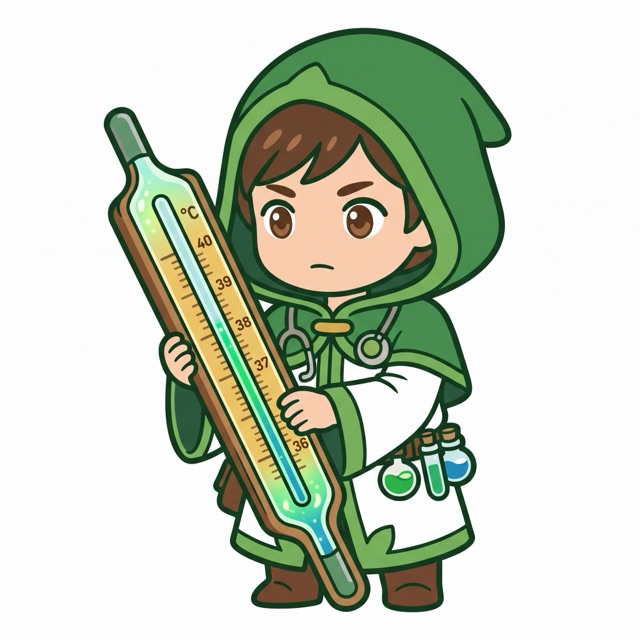
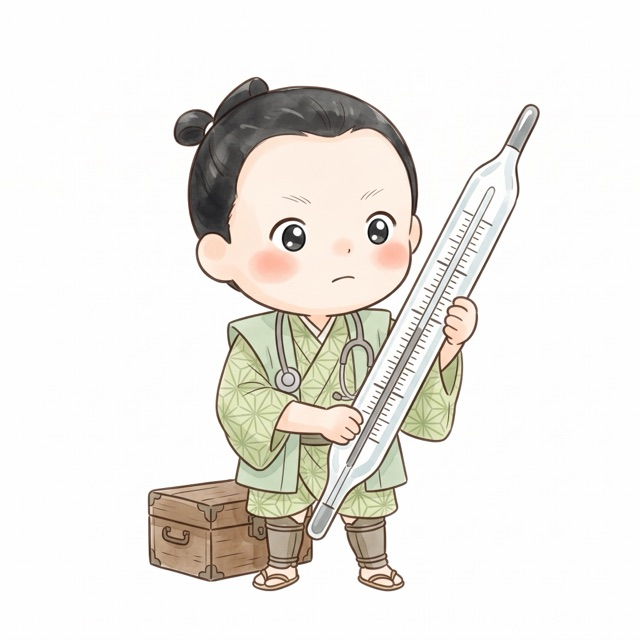
Replace HR type characters with 和風 picture-book style, rename SGDM to 規程の編纂官
- 16 character images regenerated in a soft Japanese picture-book style to match the community site
- 労務系 accent color changed from navy to purple
- SGDM renamed from ガバナンス設計士 to 規程の編纂官
- Add CHARACTERS.md with the image prompts for future regeneration

diff --git a/hr-type/style.css b/hr-type/style.css
@@ -1,7 +1,7 @@
 /* ===================================================
    HRタイプ診断 - スタイルシート
    ギルドの登録証のような、落ち着いた紙×インディゴ。
-   4つの領域（採用・組織・制度・労務）はキャラの服の色に合わせた4色。
+   4つの領域（採用・組織・制度・労務）はキャラの服の色に合わせた4色（オレンジ・グリーン・ブルー・パープル）。
 =================================================== */
 
 :root {
@@ -18,7 +18,7 @@
   --row-orange: #d9642a; --row-orange-bg: #fdebe0;
   --row-green:  #2e8b57; --row-green-bg:  #e2f3e8;
   --row-blue:   #2f5fd6; --row-blue-bg:   #e1e9fb;
-  --row-navy:   #2b3f6b; --row-navy-bg:   #e3e8f1;
+  --row-purple: #6b3fa0; --row-purple-bg: #ece3f7;
   --radius: 18px;
 }
 
@@ -264,7 +264,7 @@ h1, h2, h3, .logo, .result-name, .q-text, .start-title {
 .catalog-item[data-row="採用系"] { border-left: 4px solid var(--row-orange); }
 .catalog-item[data-row="組織系"] { border-left: 4px solid var(--row-green); }
 .catalog-item[data-row="制度系"] { border-left: 4px solid var(--row-blue); }
-.catalog-item[data-row="労務系"] { border-left: 4px solid var(--row-navy); }
+.catalog-item[data-row="労務系"] { border-left: 4px solid var(--row-purple); }
 
 /* ---------- フッター ---------- */
 #page-footer { text-align: center; padding-top: 28px; font-size: 0.75rem; color: var(--ink-3); line-height: 1.6; }

diff --git a/hr-type/types.js b/hr-type/types.js
@@ -227,7 +227,7 @@ const TYPES = {
       "partner": "PGIF"
   },
   SGDM: {
-      "name": "ガバナンス設計士",
+      "name": "規程の編纂官",
       "row": "労務系",
       "catch": "会社の土台は、規程でできている。",
       "desc": "就業規則、規程、内部統制、監査対応を仕組みとして設計し、会社の土台を守る。上場準備やグループ再編で、経営と一緒にルールの骨格を組む。「なんとなく運用」を「説明できる仕組み」に変えていく人。",
@@ -238,7 +238,7 @@ const TYPES = {
       ],
       "flip": "仕組みが先に立ち、現場から「ルールが増えた」とだけ思われることがある",
       "topic": "ルールは増やすべきか、減らすべきか？",
-      "intro": "ガバナンス設計士型です。規程や統制の設計は得意ですが、現場の実感からは遠くなりがちなので、教えてください。",
+      "intro": "規程の編纂官型です。規程や統制を整えるのは得意ですが、現場の実感からは遠くなりがちなので、教えてください。",
       "partner": "PGIM"
   },
 };

diff --git a/hr-type/CHARACTERS.md b/hr-type/CHARACTERS.md
@@ -1,0 +1,244 @@
+# HRタイプ診断 キャラ画像プロンプト
+
+やさしい絵本風の和風イラスト（2頭身、まん丸の顔、淡彩）で16体を作るためのGemini用プロンプト。
+生成時は毎回、完成済みの採用ハンター（PAIF）を添付し、末尾の「添付と同じ線・淡さ・顔・頭身で」を効かせる。
+
+- 髪は全員「黒の総髪を後ろで小さく結ぶ」で固定。髷・丸髷・ひげは使わない（性別に読まれるため）
+- 見分けは着物の柄・目の形・表情・かぶり物で付ける
+- 着物の基調色：採用系オレンジ／組織系グリーン／制度系ブルー／労務系パープル
+- 背景は真っ白一色で出す。サイトの背景が白いのでJPEGのまま使える。ファイル名はコード4文字（例 `PAIF.jpeg`）
+
+## 見立て一覧
+
+| コード | タイプ | 見立て | 持ち物 |
+|---|---|---|---|
+| PAIF | 採用ハンター | 江戸の猟師 | オレンジ色の着物を尻端折りにして、手甲と脚絆。和弓を構え、矢の代わりに白い名刺を番えている。腰の矢筒にも名刺が数枚。少し内股で、体をちょっと傾け、得意げで明るい笑顔。 |
+| PAIM | 採用の軍師 | 戦国の軍師 | オレンジ色の陣羽織。片手に軍配、もう片方の手で組織図が描かれた巻物を広げ、遠くを見据えている。 |
+| PADF | 採用サイエンティスト | 蘭学者 | オレンジ色の着物に白い羽織、丸眼鏡。漏斗（ファネル）の形をした大きなガラスのフラスコを掲げ、もう片方の手に書き付けの束。フラスコの中を真剣に覗く。 |
+| PADM | タレント戦略家 | 将棋指し | オレンジ色の羽織。将棋盤の前に座り、駒を一枚置こうとしている。盤の脇にタブレットがあり、画面に組織図。静かな自信の表情。 |
+| PGIF | 駆け込み寺 | 寺の若い住職 | グリーンの僧衣、頭に何もかぶらない。湯呑みを2つ持って片方を差し出し、足元に座布団。若くて丸い顔立ちで、おじさんには見えない。 |
+| PGIM | 経営の相談役 | ご意見番の家老 | グリーンの裃。帳面と筆を手に、少し身を乗り出して相手の話を聞いている。口元に小さな笑み。 |
+| PGDF | 組織の主治医 | 町医者 | グリーンの着物に十徳の羽織、首に聴診器。自分の背丈ほどある大きな体温計を抱え、足元に薬箱。目盛りを真剣に読んでいる。 |
+| PGDM | ピープルアナリスト | 天文方 | グリーンの着物に袖をたすきで留めている。江戸時代の木製の象限儀（四角い天板の付いた木の台の上に、四分円の目盛り板と、その上を回る細長い照準棒が載った観測器具。添付の写真の器具）の横に立ち、背伸びをして照準棒に片目を近づけ、斜め上の空を覗いている。もう片方の手には、星を線で結んだ星図（折れ線グラフのように見える）を持っていてもよい。 |
+| SAIF | 文化の仕掛け人 | 祭りの仕掛け人 | ブルーの法被にねじり鉢巻。片手に団扇、もう片方の手にクラッカーを鳴らした瞬間で、紙吹雪が舞っている。背後に提灯が1つ。 |
+| SAIM | ビジョンの翻訳家 | 長崎の通詞（江戸時代の通訳・翻訳家） | ブルーの着物の上に、西洋風の襟付きの濃い色のジャケットを羽織り、首に細いスカーフ。低い文机の前に正座し、机の左側には開いた洋書（ページに横書きの線が並ぶ）、右側には和紙（縦書きの線が途中まで書かれている）。右手に筆を持ち、洋書を見ながら和紙に書き写している最中。机の端に分厚い辞書と、洋書が2〜3冊積んである。体はやや斜め前を向き、顔がはっきり見える。訳語を考えて少し首をかしげた、穏やかな表情。読める文字は描かず、線で文字列を表す。 |
+| SADF | 制度チューナー | からくり師 | ブルーの着物に前掛け、袖をたすきで留めている。自分の顔ほどある歯車をねじ回しで締めている。片目をつぶって覗き込む真剣な顔。 |
+| SADM | 制度アーキテクト | 宮大工 | ブルーの半纏に頭に手ぬぐい。丸めた図面を小脇に抱え、片手に曲尺。足元に木組みの小さな模型。芯の強い表情。 |
+| SGIF | 労務の守護神 | 鎧武者 | パープルの具足、兜はかぶらない。自分の背丈ほどある木の置き盾を両手で立てて、その後ろから顔と体の半分を出している。盾には矢が2〜3本刺さっていて、今まさに1本の矢が盾のすぐ横の地面に落ちたところ。それを見て目を丸くしてびっくりしている。怖がっているのではなく「おっと、危なかった」というかわいい驚き。盾はしっかり構えていて、守り切った感じ。 |
+| SGIM | リスクの番人 | お奉行 | パープルの裃。お白洲の上座に座り、片手に扇子、もう片方の手で裁きの書状を押さえている。落ち着いて厳しい、でも怖くはない表情。 |
+| SGDF | オペレーション職人 | 勘定方 | パープルの着物に袖をたすきで留め、袖口をまくっている。片手にそろばん、もう片方の手で大きな判子を帳簿に押している瞬間。周りに帳簿の山。集中して口をきゅっと結ぶ。 |
+| SGDM | 規程の編纂官 | 御定書を編む編纂官 | パープルの裃。低い文机の前に正座し、周りの床には広げた巻物が山のように散らばっている。その巻物の内容を集めて、机の上の一冊の分厚い綴じ本にまとめている最中で、片手に綴じ紐（または綴じ針）、もう片方の手で本の背を押さえている。机の端に朱印と、まとめ終わった綴じ本が1冊。体はやや斜め前を向き、顔がはっきり見える。「これで全部そろった」という満足げで穏やかな表情。読める文字は描かず、巻物と本の中身は線で表す。 |
+
+## 共通スタイル
+
+```
+やさしい絵本の挿絵のような和風イラスト。細く均一な濃い茶色の線画に、淡い水彩の色を薄く置く。背景は完全な真っ白一色。影はほとんどなく、平坦でやわらかい塗り。2頭身のデフォルメで、頭を大きく、体は小さく。手足は短く、手は丸い握りこぶし。全身、正面やや斜め。文字は入れない。正方形の構図で人物を中央に大きく。顔：輪郭はあごのないまん丸。目は顔の下半分に置き、大きくて黒目がはっきり、左右を離す。目にハイライトを2つ。眉は細く薄く、目から離す。頬にふんわり赤み。口角の上がった小さな口。親しみやすく、幼く見えるかわいらしい顔立ち。性別も年齢も分からない中性的な顔で、髪は黒く、総髪を後ろで小さく結ぶ。髷や丸髷、ひげはなし。16体すべて同じ髪型。
+```
+
+## PAIF 採用ハンター
+
+```
+やさしい絵本の挿絵のような和風イラスト。細く均一な濃い茶色の線画に、淡い水彩の色を薄く置く。背景は完全な真っ白一色。影はほとんどなく、平坦でやわらかい塗り。2頭身のデフォルメで、頭を大きく、体は小さく。手足は短く、手は丸い握りこぶし。全身、正面やや斜め。文字は入れない。正方形の構図で人物を中央に大きく。顔：輪郭はあごのないまん丸。目は顔の下半分に置き、大きくて黒目がはっきり、左右を離す。目にハイライトを2つ。眉は細く薄く、目から離す。頬にふんわり赤み。口角の上がった小さな口。親しみやすく、幼く見えるかわいらしい顔立ち。性別も年齢も分からない中性的な顔で、髪は黒く、総髪を後ろで小さく結ぶ。髷や丸髷、ひげはなし。16体すべて同じ髪型。
+
+【キャラクター】江戸の猟師。オレンジ色の着物を尻端折りにして、手甲と脚絆。和弓を構え、矢の代わりに白い名刺を番えている。腰の矢筒にも名刺が数枚。少し内股で、体をちょっと傾け、得意げで明るい笑顔。
+【柄と表情】着物は無地。大きな丸い目、口を開けた元気な笑顔。顔の作りと髪型は他の15体と同じで、着物の柄・表情・かぶり物だけを変える。
+【基調色】オレンジを着物のメインカラーにする。
+【役割のイメージ】人事の「採用ハンター」。会って3分で、この人だと分かる。
+
+添付の画像（採用ハンター）と同じ線、同じ色の淡さ、同じ顔の作り、同じ頭身で描く。16体シリーズの1体として、他の15体と揃えられるシンプルな描き方。
+```
+
+## PAIM 採用の軍師
+
+```
+やさしい絵本の挿絵のような和風イラスト。細く均一な濃い茶色の線画に、淡い水彩の色を薄く置く。背景は完全な真っ白一色。影はほとんどなく、平坦でやわらかい塗り。2頭身のデフォルメで、頭を大きく、体は小さく。手足は短く、手は丸い握りこぶし。全身、正面やや斜め。文字は入れない。正方形の構図で人物を中央に大きく。顔：輪郭はあごのないまん丸。目は顔の下半分に置き、大きくて黒目がはっきり、左右を離す。目にハイライトを2つ。眉は細く薄く、目から離す。頬にふんわり赤み。口角の上がった小さな口。親しみやすく、幼く見えるかわいらしい顔立ち。性別も年齢も分からない中性的な顔で、髪は黒く、総髪を後ろで小さく結ぶ。髷や丸髷、ひげはなし。16体すべて同じ髪型。
+
+【キャラクター】戦国の軍師。オレンジ色の陣羽織。片手に軍配、もう片方の手で組織図が描かれた巻物を広げ、遠くを見据えている。
+【柄と表情】陣羽織は縞。目を少し細めた、自信ありげな微笑。顔の作りと髪型は他の15体と同じで、着物の柄・表情・かぶり物だけを変える。
+【基調色】オレンジを着物のメインカラーにする。
+【役割のイメージ】人事の「採用の軍師」。誰を採るかは、会社がどこへ行くかだ。
+
+添付の画像（採用ハンター）と同じ線、同じ色の淡さ、同じ顔の作り、同じ頭身で描く。16体シリーズの1体として、他の15体と揃えられるシンプルな描き方。
+```
+
+## PADF 採用サイエンティスト
+
+```
+やさしい絵本の挿絵のような和風イラスト。細く均一な濃い茶色の線画に、淡い水彩の色を薄く置く。背景は完全な真っ白一色。影はほとんどなく、平坦でやわらかい塗り。2頭身のデフォルメで、頭を大きく、体は小さく。手足は短く、手は丸い握りこぶし。全身、正面やや斜め。文字は入れない。正方形の構図で人物を中央に大きく。顔：輪郭はあごのないまん丸。目は顔の下半分に置き、大きくて黒目がはっきり、左右を離す。目にハイライトを2つ。眉は細く薄く、目から離す。頬にふんわり赤み。口角の上がった小さな口。親しみやすく、幼く見えるかわいらしい顔立ち。性別も年齢も分からない中性的な顔で、髪は黒く、総髪を後ろで小さく結ぶ。髷や丸髷、ひげはなし。16体すべて同じ髪型。
+
+【キャラクター】蘭学者。オレンジ色の着物に白い羽織、丸眼鏡。漏斗（ファネル）の形をした大きなガラスのフラスコを掲げ、もう片方の手に書き付けの束。フラスコの中を真剣に覗く。
+【柄と表情】着物は格子。丸眼鏡、驚いたように丸く開けた口。顔の作りと髪型は他の15体と同じで、着物の柄・表情・かぶり物だけを変える。
+【基調色】オレンジを着物のメインカラーにする。
+【役割のイメージ】人事の「採用サイエンティスト」。歩留まりは、嘘をつかない。
+
+添付の画像（採用ハンター）と同じ線、同じ色の淡さ、同じ顔の作り、同じ頭身で描く。16体シリーズの1体として、他の15体と揃えられるシンプルな描き方。
+```
+
+## PADM タレント戦略家
+
+```
+やさしい絵本の挿絵のような和風イラスト。細く均一な濃い茶色の線画に、淡い水彩の色を薄く置く。背景は完全な真っ白一色。影はほとんどなく、平坦でやわらかい塗り。2頭身のデフォルメで、頭を大きく、体は小さく。手足は短く、手は丸い握りこぶし。全身、正面やや斜め。文字は入れない。正方形の構図で人物を中央に大きく。顔：輪郭はあごのないまん丸。目は顔の下半分に置き、大きくて黒目がはっきり、左右を離す。目にハイライトを2つ。眉は細く薄く、目から離す。頬にふんわり赤み。口角の上がった小さな口。親しみやすく、幼く見えるかわいらしい顔立ち。性別も年齢も分からない中性的な顔で、髪は黒く、総髪を後ろで小さく結ぶ。髷や丸髷、ひげはなし。16体すべて同じ髪型。
+
+【キャラクター】将棋指し。オレンジ色の羽織。将棋盤の前に座り、駒を一枚置こうとしている。盤の脇にタブレットがあり、画面に組織図。静かな自信の表情。
+【柄と表情】羽織は細かい小紋。目を少し細めた、落ち着いた微笑。顔の作りと髪型は他の15体と同じで、着物の柄・表情・かぶり物だけを変える。
+【基調色】オレンジを着物のメインカラーにする。
+【役割のイメージ】人事の「タレント戦略家」。3年後の組織図から、今日の採用を決める。
+
+添付の画像（採用ハンター）と同じ線、同じ色の淡さ、同じ顔の作り、同じ頭身で描く。16体シリーズの1体として、他の15体と揃えられるシンプルな描き方。
+```
+
+## PGIF 駆け込み寺
+
+```
+やさしい絵本の挿絵のような和風イラスト。細く均一な濃い茶色の線画に、淡い水彩の色を薄く置く。背景は完全な真っ白一色。影はほとんどなく、平坦でやわらかい塗り。2頭身のデフォルメで、頭を大きく、体は小さく。手足は短く、手は丸い握りこぶし。全身、正面やや斜め。文字は入れない。正方形の構図で人物を中央に大きく。顔：輪郭はあごのないまん丸。目は顔の下半分に置き、大きくて黒目がはっきり、左右を離す。目にハイライトを2つ。眉は細く薄く、目から離す。頬にふんわり赤み。口角の上がった小さな口。親しみやすく、幼く見えるかわいらしい顔立ち。性別も年齢も分からない中性的な顔で、髪は黒く、総髪を後ろで小さく結ぶ。髷や丸髷、ひげはなし。16体すべて同じ髪型。
+
+【キャラクター】寺の若い住職。グリーンの僧衣、頭に何もかぶらない。湯呑みを2つ持って片方を差し出し、足元に座布団。若くて丸い顔立ちで、おじさんには見えない。
+【柄と表情】僧衣は無地。にっこり閉じた目、赤いほっぺを大きめに、小さな笑顔。顔の作りと髪型は他の15体と同じで、着物の柄・表情・かぶり物だけを変える。
+【基調色】グリーンを着物のメインカラーにする。
+【役割のイメージ】人事の「駆け込み寺」。話を聞いてもらえるだけで、人は残る。
+
+添付の画像（採用ハンター）と同じ線、同じ色の淡さ、同じ顔の作り、同じ頭身で描く。16体シリーズの1体として、他の15体と揃えられるシンプルな描き方。
+```
+
+## PGIM 経営の相談役
+
+```
+やさしい絵本の挿絵のような和風イラスト。細く均一な濃い茶色の線画に、淡い水彩の色を薄く置く。背景は完全な真っ白一色。影はほとんどなく、平坦でやわらかい塗り。2頭身のデフォルメで、頭を大きく、体は小さく。手足は短く、手は丸い握りこぶし。全身、正面やや斜め。文字は入れない。正方形の構図で人物を中央に大きく。顔：輪郭はあごのないまん丸。目は顔の下半分に置き、大きくて黒目がはっきり、左右を離す。目にハイライトを2つ。眉は細く薄く、目から離す。頬にふんわり赤み。口角の上がった小さな口。親しみやすく、幼く見えるかわいらしい顔立ち。性別も年齢も分からない中性的な顔で、髪は黒く、総髪を後ろで小さく結ぶ。髷や丸髷、ひげはなし。16体すべて同じ髪型。
+
+【キャラクター】ご意見番の家老。グリーンの裃。帳面と筆を手に、少し身を乗り出して相手の話を聞いている。口元に小さな笑み。
+【柄と表情】裃は太めの縞。四角い眼鏡、穏やかな微笑。顔の作りと髪型は他の15体と同じで、着物の柄・表情・かぶり物だけを変える。
+【基調色】グリーンを着物のメインカラーにする。
+【役割のイメージ】人事の「経営の相談役」。社長にも、話せる相手が必要だ。
+
+添付の画像（採用ハンター）と同じ線、同じ色の淡さ、同じ顔の作り、同じ頭身で描く。16体シリーズの1体として、他の15体と揃えられるシンプルな描き方。
+```
+
+## PGDF 組織の主治医
+
+```
+やさしい絵本の挿絵のような和風イラスト。細く均一な濃い茶色の線画に、淡い水彩の色を薄く置く。背景は完全な真っ白一色。影はほとんどなく、平坦でやわらかい塗り。2頭身のデフォルメで、頭を大きく、体は小さく。手足は短く、手は丸い握りこぶし。全身、正面やや斜め。文字は入れない。正方形の構図で人物を中央に大きく。顔：輪郭はあごのないまん丸。目は顔の下半分に置き、大きくて黒目がはっきり、左右を離す。目にハイライトを2つ。眉は細く薄く、目から離す。頬にふんわり赤み。口角の上がった小さな口。親しみやすく、幼く見えるかわいらしい顔立ち。性別も年齢も分からない中性的な顔で、髪は黒く、総髪を後ろで小さく結ぶ。髷や丸髷、ひげはなし。16体すべて同じ髪型。
+
+【キャラクター】町医者。グリーンの着物に十徳の羽織、首に聴診器。自分の背丈ほどある大きな体温計を抱え、足元に薬箱。目盛りを真剣に読んでいる。
+【柄と表情】着物は麻の葉柄。大きな丸い目、口を結んだ真剣な顔。顔の作りと髪型は他の15体と同じで、着物の柄・表情・かぶり物だけを変える。
+【基調色】グリーンを着物のメインカラーにする。
+【役割のイメージ】人事の「組織の主治医」。組織にも、体温計がいる。
+
+添付の画像（採用ハンター）と同じ線、同じ色の淡さ、同じ顔の作り、同じ頭身で描く。16体シリーズの1体として、他の15体と揃えられるシンプルな描き方。
+```
+
+## PGDM ピープルアナリスト
+
+```
+やさしい絵本の挿絵のような和風イラスト。細く均一な濃い茶色の線画に、淡い水彩の色を薄く置く。背景は完全な真っ白一色。影はほとんどなく、平坦でやわらかい塗り。2頭身のデフォルメで、頭を大きく、体は小さく。手足は短く、手は丸い握りこぶし。全身、正面やや斜め。文字は入れない。正方形の構図で人物を中央に大きく。顔：輪郭はあごのないまん丸。目は顔の下半分に置き、大きくて黒目がはっきり、左右を離す。目にハイライトを2つ。眉は細く薄く、目から離す。頬にふんわり赤み。口角の上がった小さな口。親しみやすく、幼く見えるかわいらしい顔立ち。性別も年齢も分からない中性的な顔で、髪は黒く、総髪を後ろで小さく結ぶ。髷や丸髷、ひげはなし。16体すべて同じ髪型。
+
+【キャラクター】天文方。グリーンの着物に袖をたすきで留めている。江戸時代の木製の象限儀（四角い天板の付いた木の台の上に、四分円の目盛り板と、その上を回る細長い照準棒が載った観測器具。添付の写真の器具）の横に立ち、背伸びをして照準棒に片目を近づけ、斜め上の空を覗いている。もう片方の手には、星を線で結んだ星図（折れ線グラフのように見える）を持っていてもよい。
+【柄と表情】着物は霰（あられ）の点柄。丸眼鏡、口をきゅっと結ぶ。顔の作りと髪型は他の15体と同じで、着物の柄・表情・かぶり物だけを変える。
+【基調色】グリーンを着物のメインカラーにする。
+【役割のイメージ】人事の「ピープルアナリスト」。人の話を、経営の言葉にする。
+
+添付の画像（採用ハンター）と同じ線、同じ色の淡さ、同じ顔の作り、同じ頭身で描く。16体シリーズの1体として、他の15体と揃えられるシンプルな描き方。
+```
+
+## SAIF 文化の仕掛け人
+
+```
+やさしい絵本の挿絵のような和風イラスト。細く均一な濃い茶色の線画に、淡い水彩の色を薄く置く。背景は完全な真っ白一色。影はほとんどなく、平坦でやわらかい塗り。2頭身のデフォルメで、頭を大きく、体は小さく。手足は短く、手は丸い握りこぶし。全身、正面やや斜め。文字は入れない。正方形の構図で人物を中央に大きく。顔：輪郭はあごのないまん丸。目は顔の下半分に置き、大きくて黒目がはっきり、左右を離す。目にハイライトを2つ。眉は細く薄く、目から離す。頬にふんわり赤み。口角の上がった小さな口。親しみやすく、幼く見えるかわいらしい顔立ち。性別も年齢も分からない中性的な顔で、髪は黒く、総髪を後ろで小さく結ぶ。髷や丸髷、ひげはなし。16体すべて同じ髪型。
+
+【キャラクター】祭りの仕掛け人。ブルーの法被にねじり鉢巻。片手に団扇、もう片方の手にクラッカーを鳴らした瞬間で、紙吹雪が舞っている。背後に提灯が1つ。
+【柄と表情】法被は青海波の柄。大きな目、大きく開けた笑顔。顔の作りと髪型は他の15体と同じで、着物の柄・表情・かぶり物だけを変える。
+【基調色】ブルーを着物のメインカラーにする。
+【役割のイメージ】人事の「文化の仕掛け人」。制度じゃなく、空気を変える。
+
+添付の画像（採用ハンター）と同じ線、同じ色の淡さ、同じ顔の作り、同じ頭身で描く。16体シリーズの1体として、他の15体と揃えられるシンプルな描き方。
+```
+
+## SAIM ビジョンの翻訳家
+
+```
+やさしい絵本の挿絵のような和風イラスト。細く均一な濃い茶色の線画に、淡い水彩の色を薄く置く。背景は完全な真っ白一色。影はほとんどなく、平坦でやわらかい塗り。2頭身のデフォルメで、頭を大きく、体は小さく。手足は短く、手は丸い握りこぶし。全身、正面やや斜め。文字は入れない。正方形の構図で人物を中央に大きく。顔：輪郭はあごのないまん丸。目は顔の下半分に置き、大きくて黒目がはっきり、左右を離す。目にハイライトを2つ。眉は細く薄く、目から離す。頬にふんわり赤み。口角の上がった小さな口。親しみやすく、幼く見えるかわいらしい顔立ち。性別も年齢も分からない中性的な顔で、髪は黒く、総髪を後ろで小さく結ぶ。髷や丸髷、ひげはなし。16体すべて同じ髪型。
+
+【キャラクター】長崎の通詞（江戸時代の通訳・翻訳家）。ブルーの着物の上に、西洋風の襟付きの濃い色のジャケットを羽織り、首に細いスカーフ。低い文机の前に正座し、机の左側には開いた洋書（ページに横書きの線が並ぶ）、右側には和紙（縦書きの線が途中まで書かれている）。右手に筆を持ち、洋書を見ながら和紙に書き写している最中。机の端に分厚い辞書と、洋書が2〜3冊積んである。体はやや斜め前を向き、顔がはっきり見える。訳語を考えて少し首をかしげた、穏やかな表情。読める文字は描かず、線で文字列を表す。
+【柄と表情】着物は無地、ジャケットは濃い色。たれ目、穏やかな微笑。顔の作りと髪型は他の15体と同じで、着物の柄・表情・かぶり物だけを変える。
+【基調色】ブルーを着物のメインカラーにする。
+【役割のイメージ】人事の「ビジョンの翻訳家」。経営の言葉を、日々の行動に。
+
+添付の画像（採用ハンター）と同じ線、同じ色の淡さ、同じ顔の作り、同じ頭身で描く。16体シリーズの1体として、他の15体と揃えられるシンプルな描き方。
+```
+
+## SADF 制度チューナー
+
+```
+やさしい絵本の挿絵のような和風イラスト。細く均一な濃い茶色の線画に、淡い水彩の色を薄く置く。背景は完全な真っ白一色。影はほとんどなく、平坦でやわらかい塗り。2頭身のデフォルメで、頭を大きく、体は小さく。手足は短く、手は丸い握りこぶし。全身、正面やや斜め。文字は入れない。正方形の構図で人物を中央に大きく。顔：輪郭はあごのないまん丸。目は顔の下半分に置き、大きくて黒目がはっきり、左右を離す。目にハイライトを2つ。眉は細く薄く、目から離す。頬にふんわり赤み。口角の上がった小さな口。親しみやすく、幼く見えるかわいらしい顔立ち。性別も年齢も分からない中性的な顔で、髪は黒く、総髪を後ろで小さく結ぶ。髷や丸髷、ひげはなし。16体すべて同じ髪型。
+
+【キャラクター】からくり師。ブルーの着物に前掛け、袖をたすきで留めている。自分の顔ほどある歯車をねじ回しで締めている。片目をつぶって覗き込む真剣な顔。
+【柄と表情】着物は格子。片目をつぶって覗き込む顔。顔の作りと髪型は他の15体と同じで、着物の柄・表情・かぶり物だけを変える。
+【基調色】ブルーを着物のメインカラーにする。
+【役割のイメージ】人事の「制度チューナー」。制度は、作ってからが本番。
+
+添付の画像（採用ハンター）と同じ線、同じ色の淡さ、同じ顔の作り、同じ頭身で描く。16体シリーズの1体として、他の15体と揃えられるシンプルな描き方。
+```
+
+## SADM 制度アーキテクト
+
+```
+やさしい絵本の挿絵のような和風イラスト。細く均一な濃い茶色の線画に、淡い水彩の色を薄く置く。背景は完全な真っ白一色。影はほとんどなく、平坦でやわらかい塗り。2頭身のデフォルメで、頭を大きく、体は小さく。手足は短く、手は丸い握りこぶし。全身、正面やや斜め。文字は入れない。正方形の構図で人物を中央に大きく。顔：輪郭はあごのないまん丸。目は顔の下半分に置き、大きくて黒目がはっきり、左右を離す。目にハイライトを2つ。眉は細く薄く、目から離す。頬にふんわり赤み。口角の上がった小さな口。親しみやすく、幼く見えるかわいらしい顔立ち。性別も年齢も分からない中性的な顔で、髪は黒く、総髪を後ろで小さく結ぶ。髷や丸髷、ひげはなし。16体すべて同じ髪型。
+
+【キャラクター】宮大工。ブルーの半纏に頭に手ぬぐい。丸めた図面を小脇に抱え、片手に曲尺。足元に木組みの小さな模型。芯の強い表情。
+【柄と表情】半纏は縞。まっすぐな目、口を一文字に結ぶ。顔の作りと髪型は他の15体と同じで、着物の柄・表情・かぶり物だけを変える。
+【基調色】ブルーを着物のメインカラーにする。
+【役割のイメージ】人事の「制度アーキテクト」。仕組みが変われば、行動が変わる。
+
+添付の画像（採用ハンター）と同じ線、同じ色の淡さ、同じ顔の作り、同じ頭身で描く。16体シリーズの1体として、他の15体と揃えられるシンプルな描き方。
+```
+
+## SGIF 労務の守護神
+
+```
+やさしい絵本の挿絵のような和風イラスト。細く均一な濃い茶色の線画に、淡い水彩の色を薄く置く。背景は完全な真っ白一色。影はほとんどなく、平坦でやわらかい塗り。2頭身のデフォルメで、頭を大きく、体は小さく。手足は短く、手は丸い握りこぶし。全身、正面やや斜め。文字は入れない。正方形の構図で人物を中央に大きく。顔：輪郭はあごのないまん丸。目は顔の下半分に置き、大きくて黒目がはっきり、左右を離す。目にハイライトを2つ。眉は細く薄く、目から離す。頬にふんわり赤み。口角の上がった小さな口。親しみやすく、幼く見えるかわいらしい顔立ち。性別も年齢も分からない中性的な顔で、髪は黒く、総髪を後ろで小さく結ぶ。髷や丸髷、ひげはなし。16体すべて同じ髪型。
+
+【キャラクター】鎧武者。パープルの具足、兜はかぶらない。自分の背丈ほどある木の置き盾を両手で立てて、その後ろから顔と体の半分を出している。盾には矢が2〜3本刺さっていて、今まさに1本の矢が盾のすぐ横の地面に落ちたところ。それを見て目を丸くしてびっくりしている。怖がっているのではなく「おっと、危なかった」というかわいい驚き。盾はしっかり構えていて、守り切った感じ。
+【柄と表情】具足は無地。目をまん丸に見開き、口を小さな「お」の形に開けたびっくり顔。頬の赤みは大きめ。顔の作りと髪型は他の15体と同じで、着物の柄・表情・かぶり物だけを変える。
+【基調色】パープルを着物のメインカラーにする。
+【役割のイメージ】人事の「労務の守護神」。困ったときに、最初に呼ばれる。
+
+添付の画像（採用ハンター）と同じ線、同じ色の淡さ、同じ顔の作り、同じ頭身で描く。16体シリーズの1体として、他の15体と揃えられるシンプルな描き方。
+```
+
+## SGIM リスクの番人
+
+```
+やさしい絵本の挿絵のような和風イラスト。細く均一な濃い茶色の線画に、淡い水彩の色を薄く置く。背景は完全な真っ白一色。影はほとんどなく、平坦でやわらかい塗り。2頭身のデフォルメで、頭を大きく、体は小さく。手足は短く、手は丸い握りこぶし。全身、正面やや斜め。文字は入れない。正方形の構図で人物を中央に大きく。顔：輪郭はあごのないまん丸。目は顔の下半分に置き、大きくて黒目がはっきり、左右を離す。目にハイライトを2つ。眉は細く薄く、目から離す。頬にふんわり赤み。口角の上がった小さな口。親しみやすく、幼く見えるかわいらしい顔立ち。性別も年齢も分からない中性的な顔で、髪は黒く、総髪を後ろで小さく結ぶ。髷や丸髷、ひげはなし。16体すべて同じ髪型。
+
+【キャラクター】お奉行。パープルの裃。お白洲の上座に座り、片手に扇子、もう片方の手で裁きの書状を押さえている。落ち着いて厳しい、でも怖くはない表情。
+【柄と表情】裃は細かい小紋。眉を少しきりっとさせ、口を結んだ真面目な顔。それでもかわいく。顔の作りと髪型は他の15体と同じで、着物の柄・表情・かぶり物だけを変える。
+【基調色】パープルを着物のメインカラーにする。
+【役割のイメージ】人事の「リスクの番人」。火が付く前に、手を打つ。
+
+添付の画像（採用ハンター）と同じ線、同じ色の淡さ、同じ顔の作り、同じ頭身で描く。16体シリーズの1体として、他の15体と揃えられるシンプルな描き方。
+```
+
+## SGDF オペレーション職人
+
+```
+やさしい絵本の挿絵のような和風イラスト。細く均一な濃い茶色の線画に、淡い水彩の色を薄く置く。背景は完全な真っ白一色。影はほとんどなく、平坦でやわらかい塗り。2頭身のデフォルメで、頭を大きく、体は小さく。手足は短く、手は丸い握りこぶし。全身、正面やや斜め。文字は入れない。正方形の構図で人物を中央に大きく。顔：輪郭はあごのないまん丸。目は顔の下半分に置き、大きくて黒目がはっきり、左右を離す。目にハイライトを2つ。眉は細く薄く、目から離す。頬にふんわり赤み。口角の上がった小さな口。親しみやすく、幼く見えるかわいらしい顔立ち。性別も年齢も分からない中性的な顔で、髪は黒く、総髪を後ろで小さく結ぶ。髷や丸髷、ひげはなし。16体すべて同じ髪型。
+
+【キャラクター】勘定方。パープルの着物に袖をたすきで留め、袖口をまくっている。片手にそろばん、もう片方の手で大きな判子を帳簿に押している瞬間。周りに帳簿の山。集中して口をきゅっと結ぶ。
+【柄と表情】着物は縞。大きな丸い目、集中して口を結ぶ。顔の作りと髪型は他の15体と同じで、着物の柄・表情・かぶり物だけを変える。
+【基調色】パープルを着物のメインカラーにする。
+【役割のイメージ】人事の「オペレーション職人」。ミスゼロが、いちばんの誇り。
+
+添付の画像（採用ハンター）と同じ線、同じ色の淡さ、同じ顔の作り、同じ頭身で描く。16体シリーズの1体として、他の15体と揃えられるシンプルな描き方。
+```
+
+## SGDM 規程の編纂官
+
+```
+やさしい絵本の挿絵のような和風イラスト。細く均一な濃い茶色の線画に、淡い水彩の色を薄く置く。背景は完全な真っ白一色。影はほとんどなく、平坦でやわらかい塗り。2頭身のデフォルメで、頭を大きく、体は小さく。手足は短く、手は丸い握りこぶし。全身、正面やや斜め。文字は入れない。正方形の構図で人物を中央に大きく。顔：輪郭はあごのないまん丸。目は顔の下半分に置き、大きくて黒目がはっきり、左右を離す。目にハイライトを2つ。眉は細く薄く、目から離す。頬にふんわり赤み。口角の上がった小さな口。親しみやすく、幼く見えるかわいらしい顔立ち。性別も年齢も分からない中性的な顔で、髪は黒く、総髪を後ろで小さく結ぶ。髷や丸髷、ひげはなし。16体すべて同じ髪型。
+
+【キャラクター】御定書を編む編纂官。パープルの裃。低い文机の前に正座し、周りの床には広げた巻物が山のように散らばっている。その巻物の内容を集めて、机の上の一冊の分厚い綴じ本にまとめている最中で、片手に綴じ紐（または綴じ針）、もう片方の手で本の背を押さえている。机の端に朱印と、まとめ終わった綴じ本が1冊。体はやや斜め前を向き、顔がはっきり見える。「これで全部そろった」という満足げで穏やかな表情。読める文字は描かず、巻物と本の中身は線で表す。
+【柄と表情】裃は無地。たれ目、満足げで穏やかな微笑。顔の作りと髪型は他の15体と同じで、着物の柄・表情・かぶり物だけを変える。
+【基調色】パープルを着物のメインカラーにする。
+【役割のイメージ】人事の「規程の編纂官」。会社の土台は、規程でできている。
+
+添付の画像（採用ハンター）と同じ線、同じ色の淡さ、同じ顔の作り、同じ頭身で描く。16体シリーズの1体として、他の15体と揃えられるシンプルな描き方。
+```
